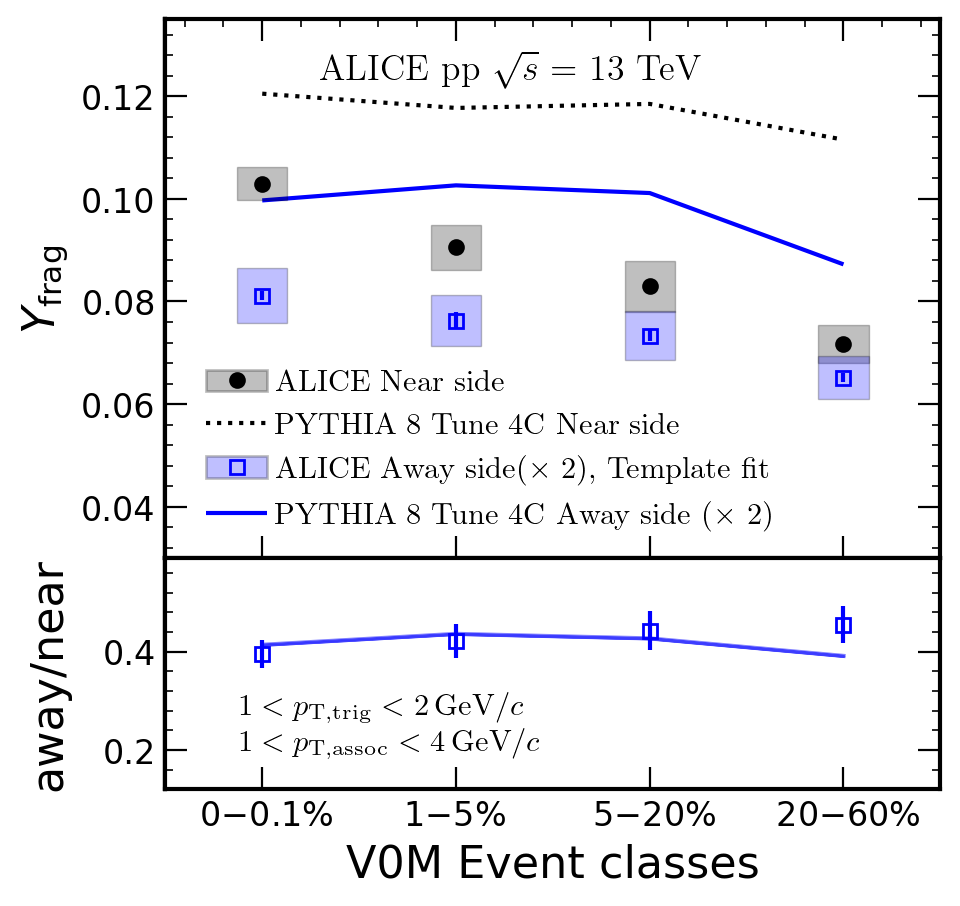
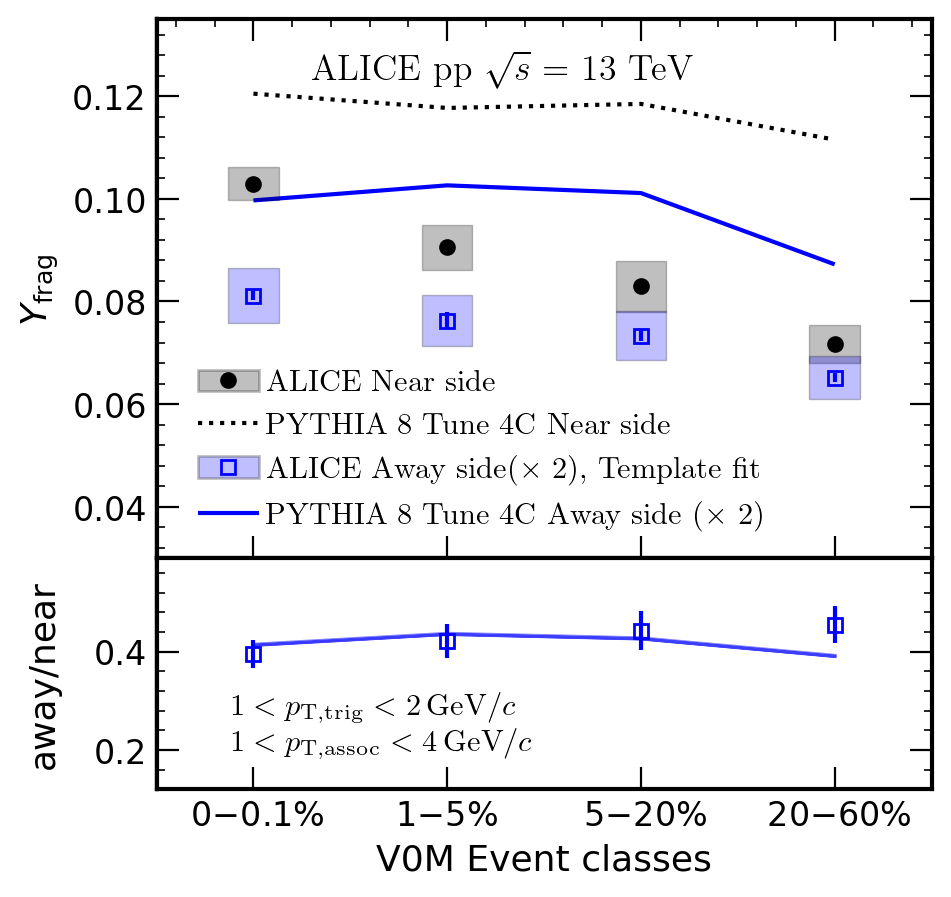
IRC comments

diff --git a/FIG3_JetY_mult.py b/FIG3_JetY_mult.py
@@ -66,7 +66,7 @@ plot = JPyPlotRatio.JPyPlotRatio(panels=(nrow,ncol),
 #	ratioSystPlot=True,
 	panelLabelLoc=(0.85,0.85),panelLabelSize=14,panelLabelAlign="left",
 	legendPanel={0:0},
-	axisLabelSize=16,legendLoc={0:(0.42,0.20)},legendSize=11,xlabel={0:xtitle[0]},ylabel={0:ytitle[0]},ylabelRatio="away/near",fontsize=1);
+	axisLabelSize=13,legendLoc={0:(0.42,0.20)},legendSize=11,xlabel={0:xtitle[0]},ylabel={0:ytitle[0]},ylabelRatio="away/near",fontsize=1);
 
 
 plot.EnableLatex(True);

diff --git a/Fig2_vn.py b/Fig2_vn.py
@@ -66,7 +66,7 @@ plot = JPyPlotRatio.JPyPlotRatio(panels=(nrow,ncol),
 	disableRatio=[0],
 	panelLabelLoc=(0.75,0.85),panelLabelSize=16,panelLabelAlign="left",
 	legendPanel=0,
-	legendLoc=(0.46,0.27),legendSize=11,xlabel={0:xtitle[0],1:xtitle[1]},ylabel=ytitle[0]);
+	legendLoc=(0.46,0.27),legendSize=12,xlabel={0:xtitle[0],1:xtitle[1]},ylabel=ytitle[0]);
 
 
 plot.EnableLatex(True); # for publication need fonts via texlive
